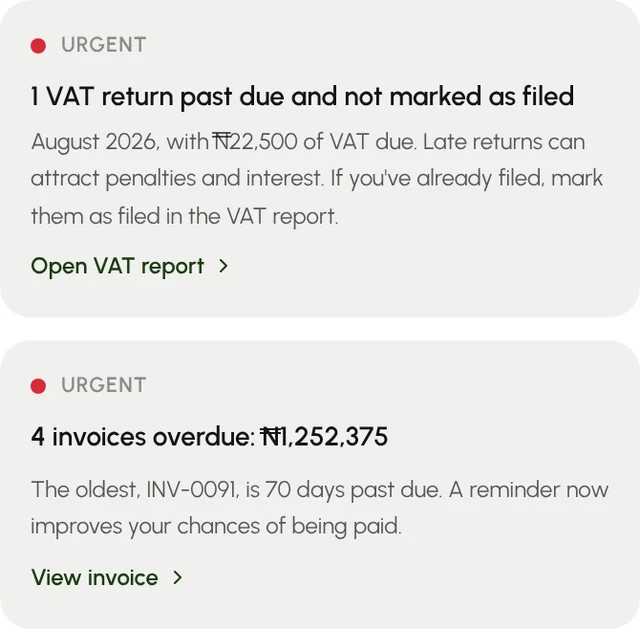
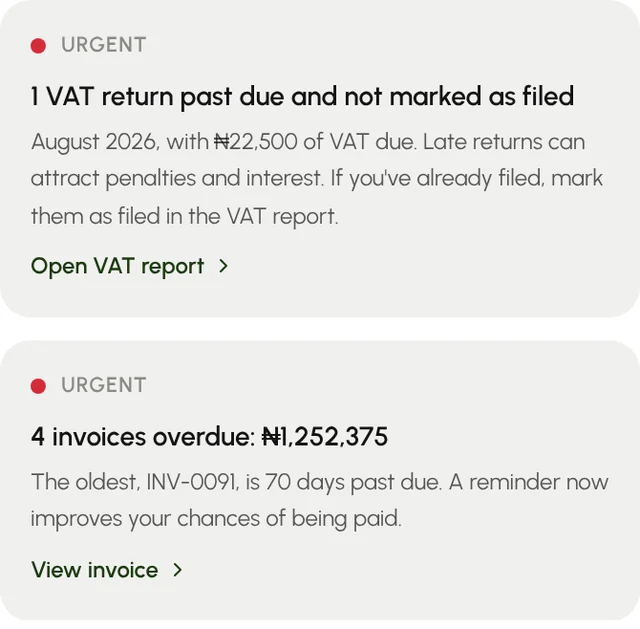
Centre the naira strokes on the N
The strokes were placed with guessed offsets inside a line box whose height
changes with each text style. Give the sign line-height 1 so its box matches
Urbanist's metrics (N ink from 0.15em to 0.85em) and centre the two strokes
on 0.5em, overhanging the ink equally on both sides. Verified in pixels:
ink and stroke centres coincide. Landing screenshots recaptured.

Claude-Session: https://claude.ai/code/session_01G2ozUykdtrq8Daw4rxgb9p

diff --git a/src/index.css b/src/index.css
@@ -65,11 +65,17 @@
 
 /* Urbanist has no ₦ glyph, so the sign is drawn from its "N" with two strokes to match the digits.
    The drawing is generated content; the real ₦ stays in the text at zero size, so copying,
-   screen readers and innerText all get "₦". */
+   screen readers and innerText all get "₦".
+   Geometry from Urbanist's metrics: with line-height 1 the box is 1em tall, the N's ink runs from
+   0.15em to 0.85em (cap height 0.7em), so its centre is exactly 0.5em. Horizontally the ink spans
+   0.06em to 0.5845em of the 0.6445em advance; the strokes overhang it by 0.08em on each side. */
 @layer components {
   .naira {
     position: relative;
     display: inline-block;
+    line-height: 1;
+    --naira-stroke: max(0.07em, 1px);
+    --naira-gap: 0.17em; /* distance between the strokes' centres */
   }
 
   .naira::before {
@@ -79,13 +85,13 @@
   .naira::after {
     content: '';
     position: absolute;
-    left: -0.08em;
-    right: -0.08em;
-    top: 0.36em;
-    height: 0.26em;
+    left: -0.02em;
+    right: -0.02em;
+    top: calc(0.5em - var(--naira-gap) / 2 - var(--naira-stroke) / 2);
+    height: calc(var(--naira-gap) + var(--naira-stroke));
     background:
-      linear-gradient(currentColor, currentColor) top / 100% max(0.075em, 1px) no-repeat,
-      linear-gradient(currentColor, currentColor) bottom / 100% max(0.075em, 1px) no-repeat;
+      linear-gradient(currentColor, currentColor) top / 100% var(--naira-stroke) no-repeat,
+      linear-gradient(currentColor, currentColor) bottom / 100% var(--naira-stroke) no-repeat;
   }
 
   .naira-text {
